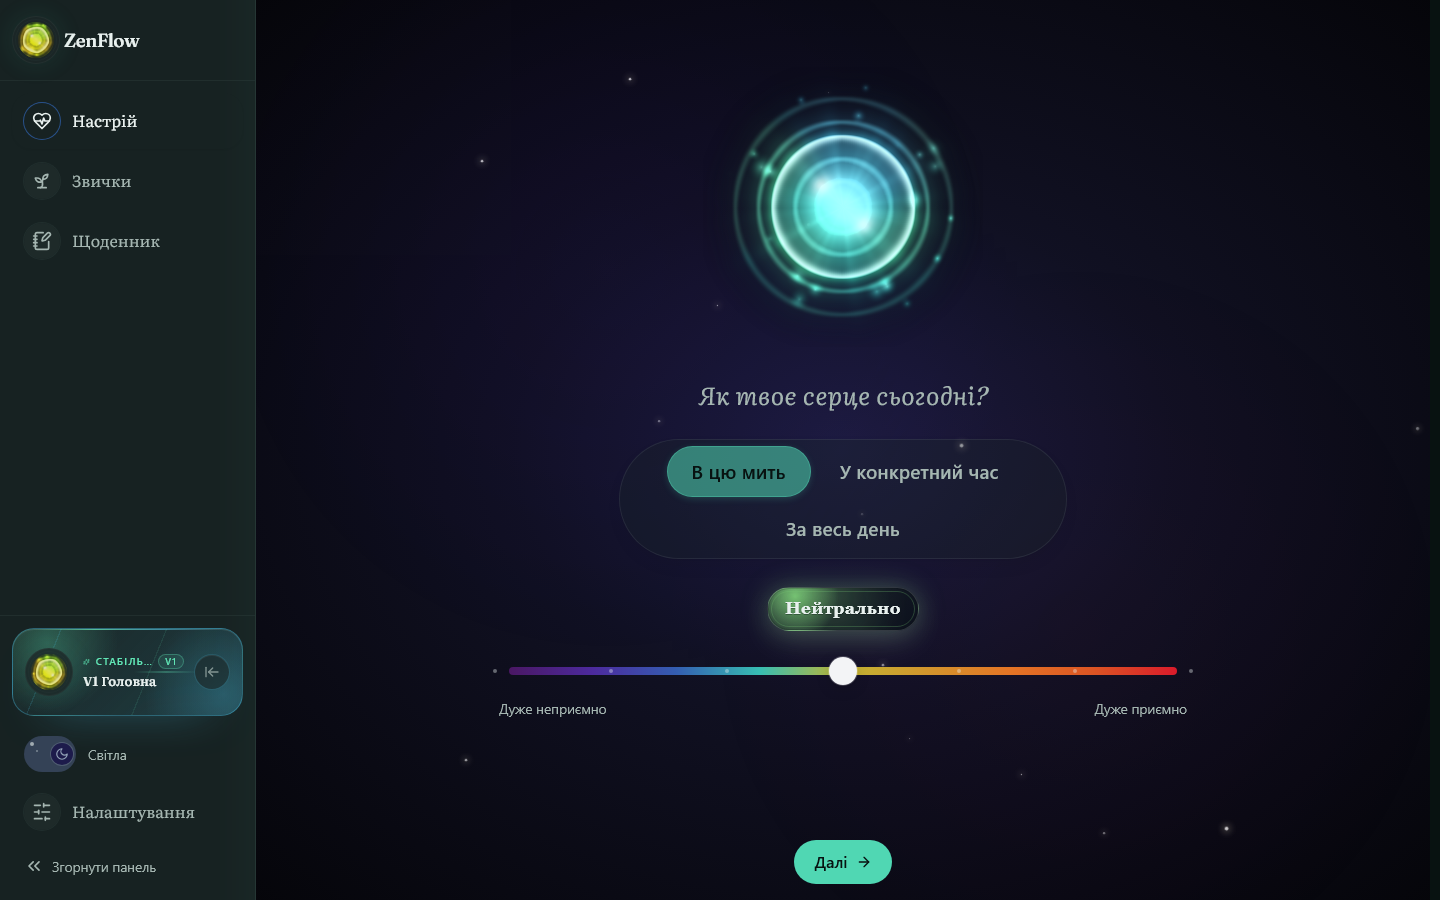
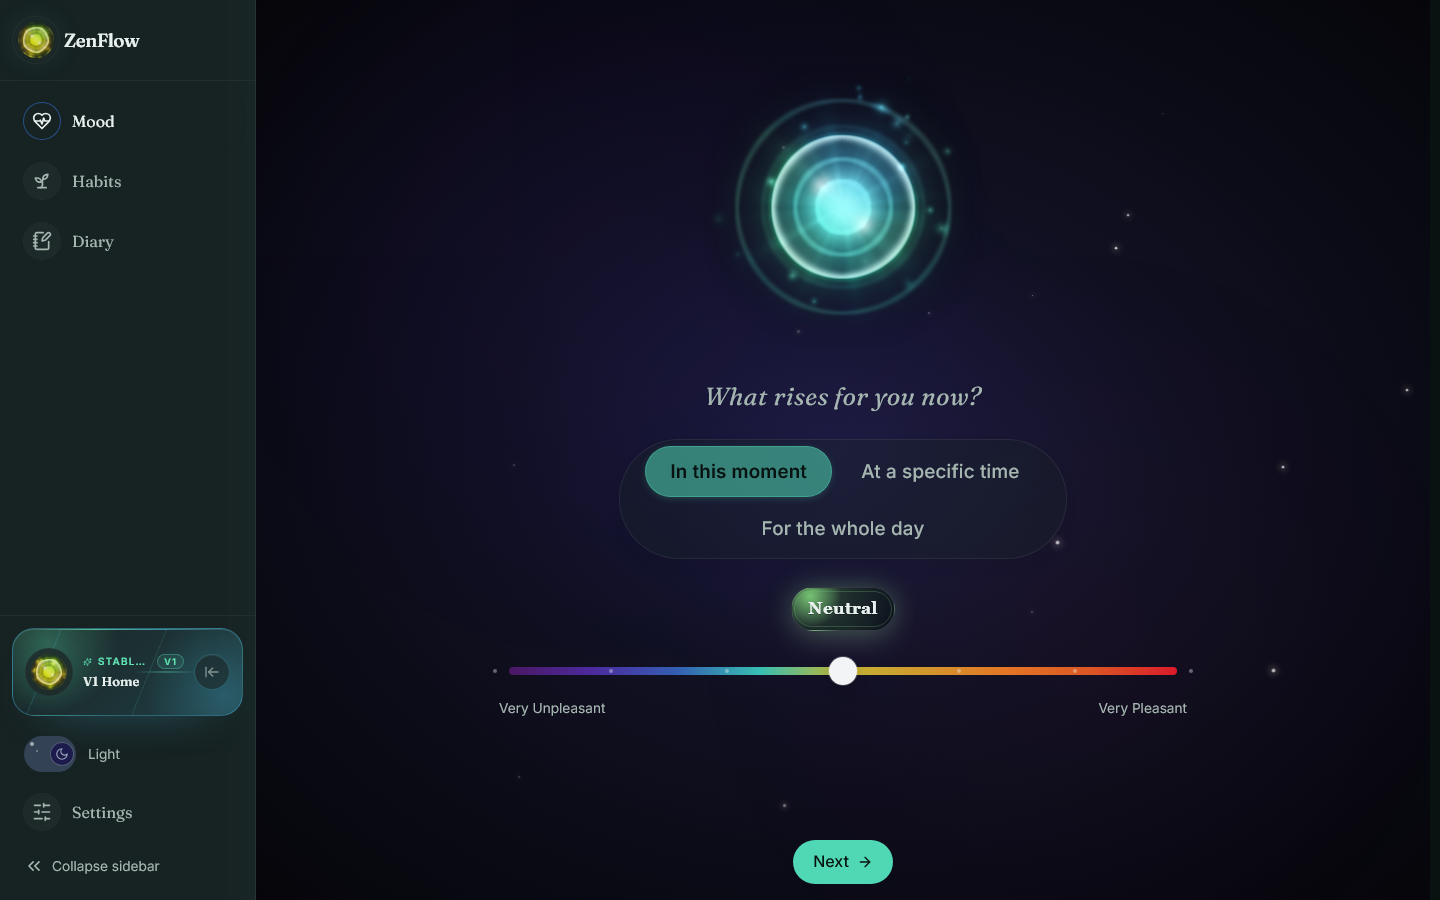
docs: finalize microsoft store listing assets

diff --git a/docs/release/microsoft-store/PARTNER_CENTER_FIELD_PACKET.md b/docs/release/microsoft-store/PARTNER_CENTER_FIELD_PACKET.md
@@ -41,7 +41,7 @@ ZenFlow turns daily wellness into a quiet desktop ritual.
 
 Open one focused space for mood check-ins, habit tracking, private journaling, and focus sessions. The V2 experience is built around ZenFlow's canonical WebGL orb system: soft, responsive, and visual without turning your day into another noisy dashboard.
 
-Use ZenFlow when you want to slow down for a minute, name what you feel, keep your habits visible, and return to your work with less friction.
+Use ZenFlow when you want to slow down for a minute, name what you feel, keep small habits visible, and return to your work without carrying the whole day in your head.
 
 What you can do:
 
@@ -78,7 +78,7 @@ characters; Partner Center renders the bullet list.
 ```text
 V2 mood check-ins with ZenFlow's canonical WebGL orb visuals
 Habit tracking for daily rituals and streaks
-Private journal for reflection and emotional clarity
+Private journal for short notes and longer reflection
 Focus sessions for calm work blocks
 Desktop shell designed for fewer browser-profile distractions
 Offline-capable workflow with sync-ready account support
@@ -120,9 +120,9 @@ All three files are public-safe ZenFlow surfaces, committed release assets, PNG,
 
 | Order | File | Caption |
 | --- | --- | --- |
-| 1 | `docs/release/microsoft-store/store-screenshots/desktop/01-v2-orb-desktop.png` | `Check in with your mood through ZenFlow's calm V2 orb flow.` |
-| 2 | `docs/release/microsoft-store/store-screenshots/desktop/02-v2-habits-desktop.png` | `Track habits and daily rituals without a crowded dashboard.` |
-| 3 | `docs/release/microsoft-store/store-screenshots/desktop/03-v2-diary-desktop.png` | `Write private reflections and keep your journal close.` |
+| 1 | `docs/release/microsoft-store/store-screenshots/desktop/01-v2-orb-desktop.png` | `Name your mood in a quiet visual flow that stays out of your way.` |
+| 2 | `docs/release/microsoft-store/store-screenshots/desktop/02-v2-habits-desktop.png` | `Build steady daily rituals without turning your day into a dashboard.` |
+| 3 | `docs/release/microsoft-store/store-screenshots/desktop/03-v2-diary-desktop.png` | `Keep private reflection close to your work, with space to start small.` |
 
 Do not upload `tmp/store-candidates/04-desktop-download-page-settled.png`.
 That rejected capture has a hero text/orb overlap and is not Store-ready.
@@ -135,10 +135,12 @@ new Store identity direction.
 
 | Partner Center slot | Upload file |
 | --- | --- |
-| App tile icon / Store logo | `docs/release/microsoft-store/assets/official-logo/zenflow-official-app-tile-icon-300.png` |
+| App tile icon / Store logo 300x300 | `docs/release/microsoft-store/assets/official-logo/zenflow-official-app-tile-icon-300.png` |
+| App tile icon / Store logo 150x150 | `docs/release/microsoft-store/assets/official-logo/zenflow-official-app-tile-icon-150.png` |
+| App tile icon / Store logo 71x71 | `docs/release/microsoft-store/assets/official-logo/zenflow-official-app-tile-icon-71.png` |
 | 1:1 box art | `docs/release/microsoft-store/assets/official-logo/zenflow-official-box-art-2160.png` |
 | 2:3 poster art | `docs/release/microsoft-store/assets/official-logo/zenflow-official-poster-art-1440x2160.png` |
-| 16:9 super hero art, if requested | `docs/release/microsoft-store/assets/official-logo/zenflow-official-super-hero-art-1920x1080.png` |
+| 16:9 super hero art | `docs/release/microsoft-store/assets/official-logo/zenflow-official-super-hero-art-1920x1080.png` |
 
 ## Manual Save Checklist
 
@@ -146,13 +148,13 @@ Mark a row `PASS` only after seeing it in Partner Center after save.
 
 | Row | Status |
 | --- | --- |
-| Pricing and availability complete | `UNVERIFIED until checked in Partner Center` |
-| Properties complete | `UNVERIFIED until checked in Partner Center` |
-| Age ratings complete | `UNVERIFIED until checked in Partner Center` |
-| Store listings complete | `UNVERIFIED until checked in Partner Center` |
-| Desktop screenshots uploaded and visible | `UNVERIFIED until checked in Partner Center` |
-| Store logos uploaded and visible | `UNVERIFIED until checked in Partner Center` |
-| Packages uploaded and accepted | `UNVERIFIED until checked in Partner Center` |
+| Pricing and availability complete | `PASS - seen in tmp/partner-center-overview-after-save.png on 2026-05-21` |
+| Properties complete | `PASS - seen in tmp/partner-center-overview-after-save.png on 2026-05-21` |
+| Age ratings complete | `PASS - seen in tmp/partner-center-overview-after-save.png on 2026-05-21` |
+| Store listings complete | `PASS - seen in tmp/partner-center-overview-after-save.png on 2026-05-21` |
+| Desktop screenshots uploaded and visible | `PASS - three English Desktop screenshots uploaded and captioned in Partner Center` |
+| Store logos uploaded and visible | `PASS - poster, box, app tile 300/150/71, and super hero art uploaded in Partner Center` |
+| Packages uploaded and accepted | `FAIL - Partner Center shows Packages as Not started` |
 | Signed package or Microsoft Store package acceptance proof | `UNVERIFIED until package step is complete` |
 | Certification submitted | `NO - do not submit from this packet` |
 
@@ -180,6 +182,9 @@ that warning is not enough; a signed MSIX/package acceptance path is required.
 - Product features are separate Store bullets and must stay under 200
   characters each.
 - Desktop screenshots must be PNG, at least `1366x768`, no larger than `50 MB`.
+- The English listing (`languagecode=en`) must use English UI screenshots; do
+  not upload localized Ukrainian, Russian, or mixed-language captures to the
+  English Store listing.
 - Critical screenshot visuals and text should stay in the top two-thirds
   because Store overlays may cover the bottom third.
 - Do not add extra logos, icons, or marketing messages to screenshots.

diff --git a/docs/release/microsoft-store/STORE_SUBMISSION_HANDOFF.md b/docs/release/microsoft-store/STORE_SUBMISSION_HANDOFF.md
@@ -52,13 +52,13 @@ or partially loaded frames.
 Recommended upload order for Desktop screenshots:
 
 1. `store-screenshots/desktop/01-v2-orb-desktop.png`
-   - Caption: `Check in with your mood through ZenFlow's calm V2 orb flow.`
+   - Caption: `Name your mood in a quiet visual flow that stays out of your way.`
    - Status: recommended first screenshot.
 2. `store-screenshots/desktop/02-v2-habits-desktop.png`
-   - Caption: `Track habits and daily rituals without a crowded dashboard.`
+   - Caption: `Build steady daily rituals without turning your day into a dashboard.`
    - Status: recommended second screenshot.
 3. `store-screenshots/desktop/03-v2-diary-desktop.png`
-   - Caption: `Write private reflections and keep your journal close.`
+   - Caption: `Keep private reflection close to your work, with space to start small.`
    - Status: acceptable privacy-safe screenshot.
 
 Do not upload `tmp/store-candidates/04-desktop-download-page-settled.png` in
@@ -75,10 +75,12 @@ Use `assets/official-logo/` for Partner Center Store logos:
 
 | Partner Center slot | File |
 | --- | --- |
-| 1:1 App tile icon / Store logo | `assets/official-logo/zenflow-official-app-tile-icon-300.png` |
+| 1:1 App tile icon / Store logo 300x300 | `assets/official-logo/zenflow-official-app-tile-icon-300.png` |
+| 1:1 App tile icon / Store logo 150x150 | `assets/official-logo/zenflow-official-app-tile-icon-150.png` |
+| 1:1 App tile icon / Store logo 71x71 | `assets/official-logo/zenflow-official-app-tile-icon-71.png` |
 | 1:1 Box art | `assets/official-logo/zenflow-official-box-art-2160.png` |
 | 9:16 Poster art | `assets/official-logo/zenflow-official-poster-art-1440x2160.png` |
-| 16:9 Super hero art, if requested | `assets/official-logo/zenflow-official-super-hero-art-1920x1080.png` |
+| 16:9 Super hero art | `assets/official-logo/zenflow-official-super-hero-art-1920x1080.png` |
 
 `assets/orb-draft/` is reference-only. Do not use draft orb exports as the
 primary Store logo unless the product owner explicitly chooses an orb-led Store
@@ -95,6 +97,22 @@ identity later.
 6. Confirm `Store listings` remains `Complete`.
 7. Do not click `Submit for certification` until `Packages` is complete and the
    release gates below are green.
+
+## Current Partner Center Evidence
+
+Last checked in Partner Center on 2026-05-21 after saving the English Store
+listing:
+
+| Section | Live status | Evidence |
+| --- | --- | --- |
+| Pricing and availability | `Complete` | `tmp/partner-center-overview-after-save.png` |
+| Properties | `Complete` | `tmp/partner-center-overview-after-save.png` |
+| Age ratings | `Complete` | `tmp/partner-center-overview-after-save.png` |
+| Store listings | `Complete` | `tmp/partner-center-overview-after-save.png` |
+| Packages | `Not started` | `tmp/partner-center-overview-after-save.png` |
+
+Certification was not submitted because the package upload step is still not
+complete.
 
 ## Release Gates Before Certification
 

diff --git a/docs/release/microsoft-store/store-screenshots/desktop/README.md b/docs/release/microsoft-store/store-screenshots/desktop/README.md
@@ -11,15 +11,16 @@ kept as release assets so Partner Center upload does not depend on temporary
 
 | Order | File | Caption |
 | --- | --- | --- |
-| 1 | `01-v2-orb-desktop.png` | `Check in with your mood through ZenFlow's calm V2 orb flow.` |
-| 2 | `02-v2-habits-desktop.png` | `Track habits and daily rituals without a crowded dashboard.` |
-| 3 | `03-v2-diary-desktop.png` | `Write private reflections and keep your journal close.` |
+| 1 | `01-v2-orb-desktop.png` | `Name your mood in a quiet visual flow that stays out of your way.` |
+| 2 | `02-v2-habits-desktop.png` | `Build steady daily rituals without turning your day into a dashboard.` |
+| 3 | `03-v2-diary-desktop.png` | `Keep private reflection close to your work, with space to start small.` |
 
 ## Quality Notes
 
 - All files are PNG.
 - All files are `1440x900`, above the Microsoft Store desktop minimum of
   `1366x768`.
+- The `languagecode=en` Store listing must use English UI screenshots only.
 - The first screenshot shows the canonical V2 orb flow and should remain first.
 - The diary screenshot is intentionally privacy-safe and avoids real user text.
 - Do not add marketing overlays, captions inside the image, browser chrome, or

diff --git a/docs/release/microsoft-store/assets/README.md b/docs/release/microsoft-store/assets/README.md
@@ -17,10 +17,12 @@ Recommended mapping:
 
 | Partner Center slot | File |
 | --- | --- |
-| App tile icon / Store logo | `official-logo/zenflow-official-app-tile-icon-300.png` |
+| App tile icon / Store logo 300x300 | `official-logo/zenflow-official-app-tile-icon-300.png` |
+| App tile icon / Store logo 150x150 | `official-logo/zenflow-official-app-tile-icon-150.png` |
+| App tile icon / Store logo 71x71 | `official-logo/zenflow-official-app-tile-icon-71.png` |
 | Box art 1:1 | `official-logo/zenflow-official-box-art-2160.png` |
 | Poster art 2:3 / 9:16-style vertical art | `official-logo/zenflow-official-poster-art-1440x2160.png` |
-| Super hero art 16:9, if requested | `official-logo/zenflow-official-super-hero-art-1920x1080.png` (no text/title) |
+| Super hero art 16:9 | `official-logo/zenflow-official-super-hero-art-1920x1080.png` (no text/title) |
 | Source-quality logo archive | `official-logo/zenflow-official-logo-source-1024.png` |
 
 ## Orb Drafts
